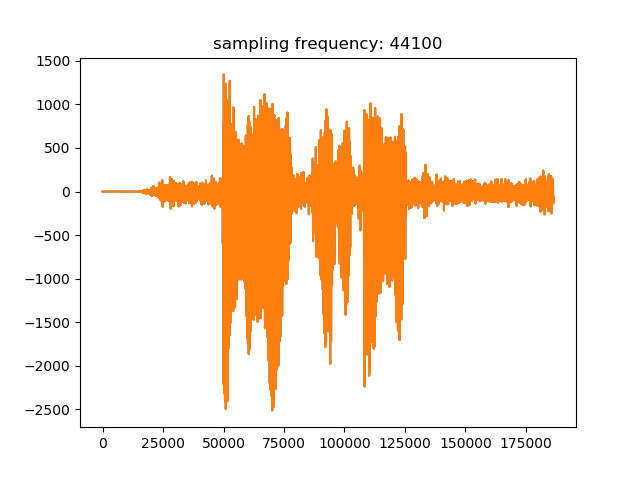
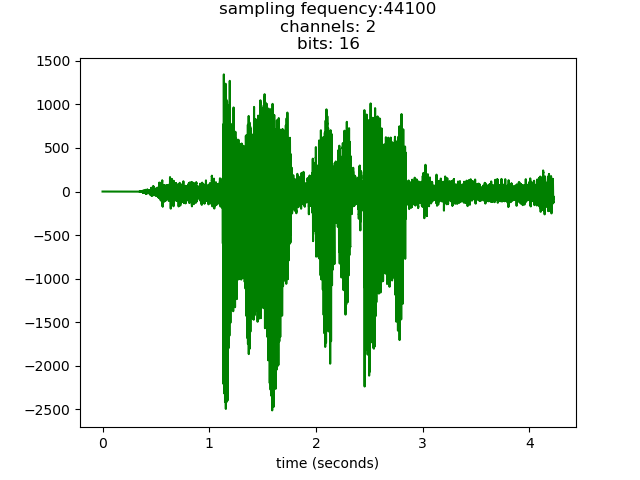
change library to wave in DrawVoice.py

diff --git a/20191/XLTH/HomeWork/DrawVoice/DrawVoice.py b/20191/XLTH/HomeWork/DrawVoice/DrawVoice.py
@@ -1,7 +1,25 @@
-import matplotlib.pyplot as plt
-from scipy.io import wavfile as wav
-rate, data = wav.read('1.wav')
-plt.title("sampling frequency: " + str(rate))
-plt.plot(data)
-plt.show()
+from scipy.io import wavfile
+from matplotlib import pyplot as plt
+import wave
+import pylab as pl
+import numpy as np
 
+f = wave.open(r"1.wav", "rb")
+
+# (nchannels, sampwidth, framerate, nframes, comptype, compname)
+params = f.getparams()
+nchannels, sampwidth, framerate, nframes = params[:4]
+
+str_data = f.readframes(nframes)
+f.close()
+
+wave_data = np.fromstring(str_data, dtype=np.short)
+wave_data.shape = -1, 2
+wave_data = wave_data.T
+time = np.arange(0, nframes) * (1.0 / framerate)
+
+pl.title("sampling fequency:" + str(framerate) + "\n" + "channels: " + str(nchannels) + "\n" + "bits: " + str(sampwidth*8))
+pl.subplot()
+pl.plot(time, wave_data[1], c="g")
+pl.xlabel("time (seconds)")
+pl.show()
